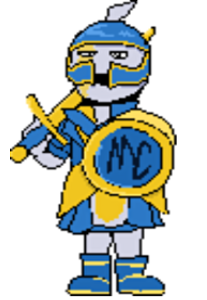
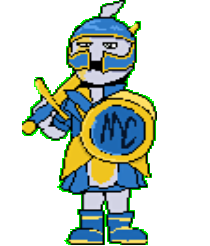
Other sprites + tiles and background added

diff --git a/src/Tilesets/CommonTileset.java b/src/Tilesets/CommonTileset.java
@@ -651,6 +651,47 @@ public class CommonTileset extends Tileset {
 
         mapTiles.add(bobcat29Tile);
 
+        
+                
+        Frame bobcat32Frame = new FrameBuilder(getSubImage(14, 0))
+        .withScale(tileScale)
+        .build();
+
+        MapTileBuilder bobcat32Tile = new MapTileBuilder(bobcat32Frame)
+                .withTileType(TileType.NOT_PASSABLE);
+
+        mapTiles.add(bobcat32Tile);
+                        
+        Frame bobcat33Frame = new FrameBuilder(getSubImage(14, 1))
+        .withScale(tileScale)
+        .build();
+
+        MapTileBuilder bobcat33Tile = new MapTileBuilder(bobcat33Frame)
+                .withTileType(TileType.NOT_PASSABLE);
+
+        mapTiles.add(bobcat33Tile);
+
+                        
+        Frame bobcat34Frame = new FrameBuilder(getSubImage(15, 0))
+        .withScale(tileScale)
+        .build();
+
+        MapTileBuilder bobcat34Tile = new MapTileBuilder(bobcat34Frame)
+                .withTileType(TileType.NOT_PASSABLE);
+
+        mapTiles.add(bobcat34Tile);
+        
+
+                        
+        Frame bobcat35Frame = new FrameBuilder(getSubImage(15, 1))
+        .withScale(tileScale)
+        .build();
+
+        MapTileBuilder bobcat35Tile = new MapTileBuilder(bobcat35Frame)
+                .withTileType(TileType.NOT_PASSABLE);
+
+        mapTiles.add(bobcat35Tile);
+
 
 
 

diff --git a/src/Screens/BattleScreen.java b/src/Screens/BattleScreen.java
@@ -43,7 +43,7 @@ public class BattleScreen extends Screen {
     protected BufferedImage enemyImage;
 
     protected int playerX = 20;
-    protected int playerY = 100;
+    protected int playerY = 150;
     protected int enemyX = 530;
     protected int enemyY = 150;
 
@@ -51,8 +51,8 @@ public class BattleScreen extends Screen {
         this.screenCoordinator = screenCoordinator;
         initialize();
         try {
-            backgroundImage = ImageIO.read(new File("Resources/rink.jpg")); 
-            playerImage = ImageIO.read(new File("Resources/happi.gif")); 
+            backgroundImage = ImageIO.read(new File("Resources/rink.png")); 
+            playerImage = ImageIO.read(new File("Resources/b0bcat.png")); 
             enemyImage = ImageIO.read(new File("Resources/b2.png")); 
         } catch (IOException e) {
             e.printStackTrace();

diff --git a/src/Maps/TestMap.java b/src/Maps/TestMap.java
@@ -1,6 +1,6 @@
 package Maps;
 
-import EnhancedMapTiles.PushableRock;
+//import EnhancedMapTiles.PushableRock;
 import Level.EnhancedMapTile;
 import Level.Map;
 import Level.NPC;
@@ -32,7 +32,7 @@ public class TestMap extends Map {
         this.playerStartPosition = getMapTile(17, 20).getLocation();
     }
 
-    @Override
+   /*/ @Override
     public ArrayList<EnhancedMapTile> loadEnhancedMapTiles() {
         ArrayList<EnhancedMapTile> enhancedMapTiles = new ArrayList<>();
 
@@ -40,7 +40,7 @@ public class TestMap extends Map {
         enhancedMapTiles.add(pushableRock);
 
         return enhancedMapTiles;
-    }
+    }*/
 
     @Override
     public ArrayList<NPC> loadNPCs() {

diff --git a/src/NPCs/Enemy1.java b/src/NPCs/Enemy1.java
@@ -14,7 +14,7 @@ import java.util.HashMap;
 
 public class Enemy1 extends NPC {
     public Enemy1(int id, Point location) {
-        super(id, location.x, location.y, new SpriteSheet(ImageLoader.load("Walrus.png"), 24, 24), "STAND_LEFT");
+        super(id, location.x, location.y, new SpriteSheet(ImageLoader.load("b4.png"), 24, 24), "STAND_LEFT");
     }
 
     public void update(Player player) {

diff --git a/src/NPCs/Enemy2.java b/src/NPCs/Enemy2.java
@@ -14,7 +14,7 @@ import java.util.HashMap;
 
 public class Enemy2 extends NPC {
     public Enemy2(int id, Point location) {
-        super(id, location.x, location.y, new SpriteSheet(ImageLoader.load("Walrus.png"), 24, 24), "STAND_LEFT");
+        super(id, location.x, location.y, new SpriteSheet(ImageLoader.load("b3.png"), 24, 24), "STAND_LEFT");
     }
 
     public void update(Player player) {
